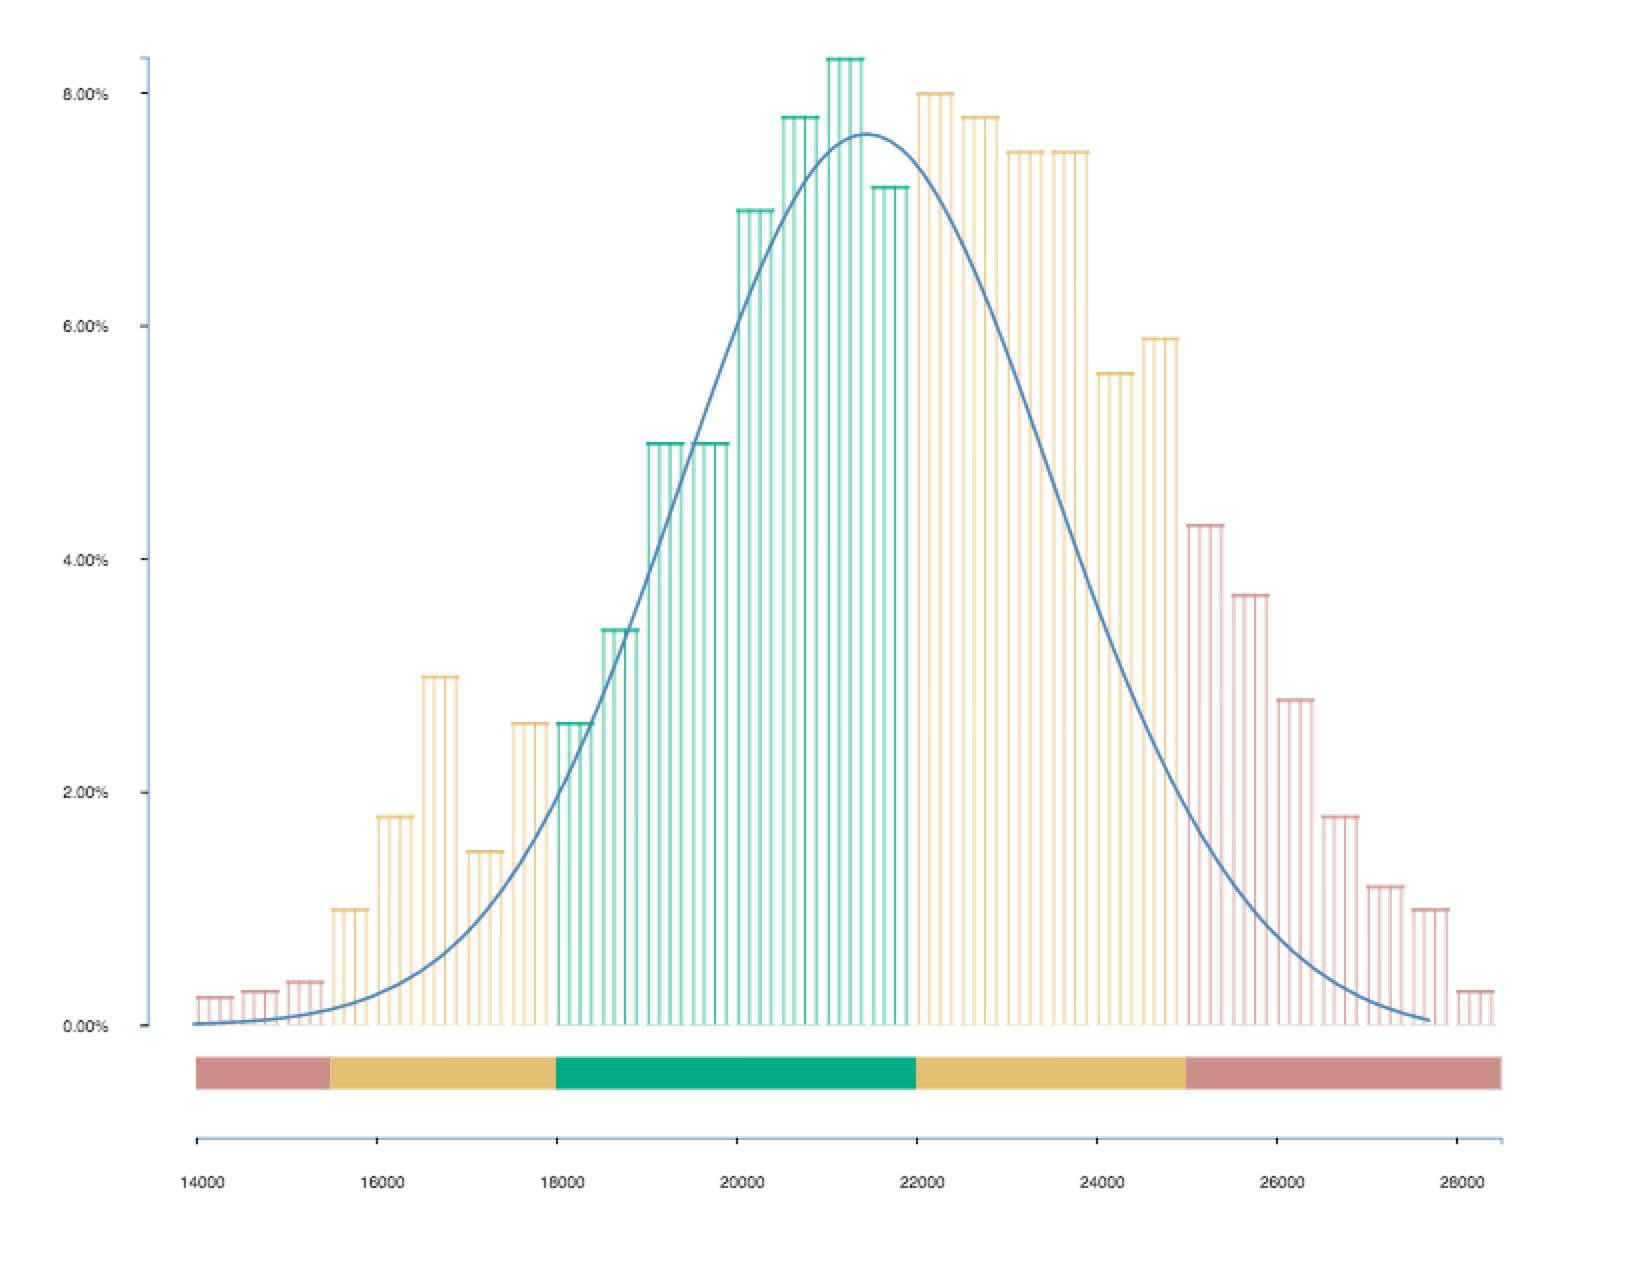
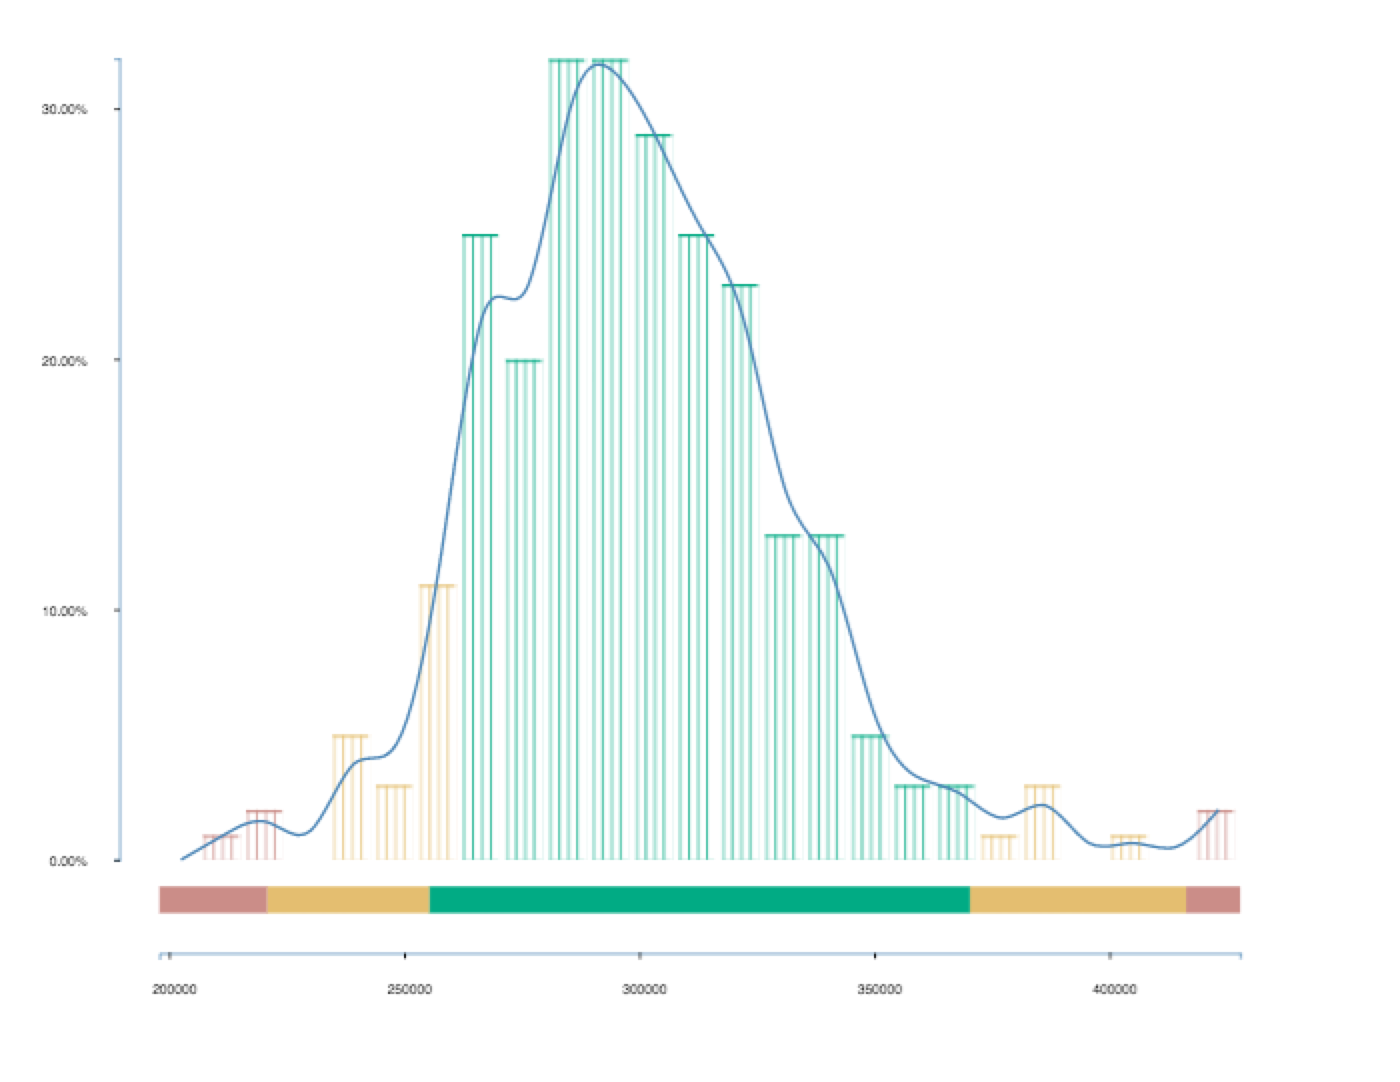
metabolism update && bins

Changed region(s): [[0.0921, 0.0305, 0.9214, 0.9455], [0.0307, 0.061, 0.0921, 0.793], [0.0307, 0.793, 0.0614, 0.8235]]

diff --git a/bin/data2graphics.rollup.js b/bin/data2graphics.rollup.js
@@ -2903,28 +2903,61 @@ function metabolism(parent, config) {
         return 'url(#vpattern-' + color + ')';
     })
     // .attr('stroke-width', 1)
-    .attr("width", x(14500) - x(14000) - 4).attr("height", function (d) {
+    .attr("width", x(input.data[0].x[1]) - x(input.data[0].x[0]) - 4).attr("height", function (d) {
         return height - y(d.y);
     });
 
     // curve
-    var data = d3$10.range(80000).map(d3$10.randomNormal(22000, 2000));
+    // let data = d3.range(80000).map(d3.randomNormal(22000, 2000));
+
+    // var line = d3.line()
+    //     .defined(function(d) {
+    //         return d;
+    //     })
+    //     .x(function(d) {
+    //         return x((d.x0 + d.x1) / 2);
+    //     })
+    //     .y(function(d) {
+    //         return y(d.length / data.length / 2.5);
+    //     })
+    //     .curve(d3.curveBasis);
+
+
+    // var bins = d3.histogram()
+    //     .domain(x.domain())
+    //     .thresholds(x.ticks(20))
+    //     (data);
+
+
+    // g.append("path")
+    //     .datum(bins)
+    //     .attr("class", "line")
+    //     .attr('fill', 'none')
+    //     .attr('stroke-width', 2)
+    //     .attr("d", line);
+
+
+    var data = input.data.map(function (e, i) {
+        return {
+            x: (e.x[1] + e.x[0]) / 2,
+            y: e.y
+        };
+    });
+
+    console.log(data);
 
     var line = d3$10.line().defined(function (d) {
         return d;
     }).x(function (d) {
-        return x((d.x0 + d.x1) / 2);
+        return x(d.x);
     }).y(function (d) {
-        return y(d.length / data.length / 2.5);
+        return y(d.y);
     }).curve(d3$10.curveBasis);
 
-    var bins = d3$10.histogram().domain(x.domain()).thresholds(x.ticks(20))(data);
+    g.append("path").datum(data).attr('transform', 'translate(30,0)').attr("class", "line").attr('fill', 'none').attr('stroke-width', 2).attr("d", line);
 
-    g.append("path").datum(bins).attr("class", "line").attr('fill', 'none').attr('stroke-width', 2).attr("d", line);
-
+    // bottom color rect bar
     var bottomRectGap = [[input.data[0].x[0], input.gap[0]], [input.gap[0], input.gap[1]], [input.gap[1], input.gap[2]], [input.gap[2], input.gap[3]], [input.gap[3], input.data[input.data.length - 1].x[1]]];
-
-    console.log(bottomRectGap);
 
     g.selectAll('rect.bottomRect').data(bottomRectGap).enter().append('rect').attr('transform', 'translate(30,0)').attr('x', function (d, i) {
         return x(d[0]);
@@ -2933,7 +2966,14 @@ function metabolism(parent, config) {
     }).attr('width', function (d, i) {
         return x(d[1]) - x(d[0]);
     }).attr('height', 20).attr('fill', function (d, i) {
-        return 'seagreen';
+        var color = '#cb8d88';
+
+        i === 0 && (color = '#cb8d88');
+        i === 1 && (color = '#e4be6f');
+        i === 2 && (color = '#00ab84');
+        i === 3 && (color = '#e4be6f');
+
+        return color;
     });
 
     // console.log(d3.range(0,1,0.5))
